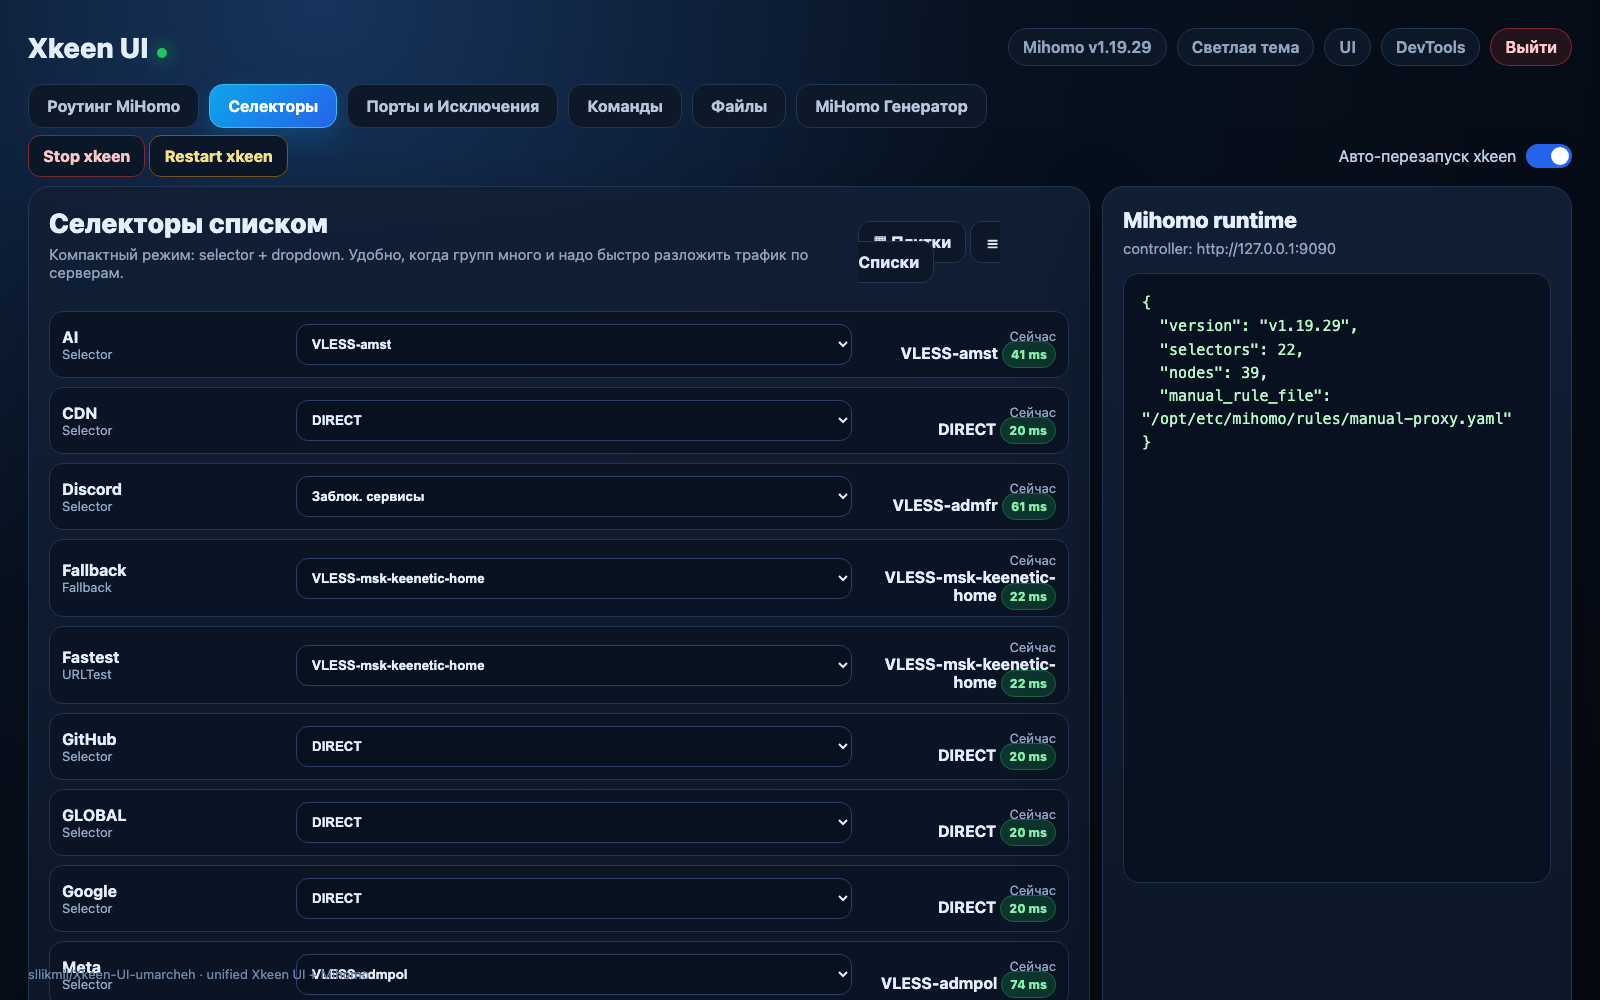
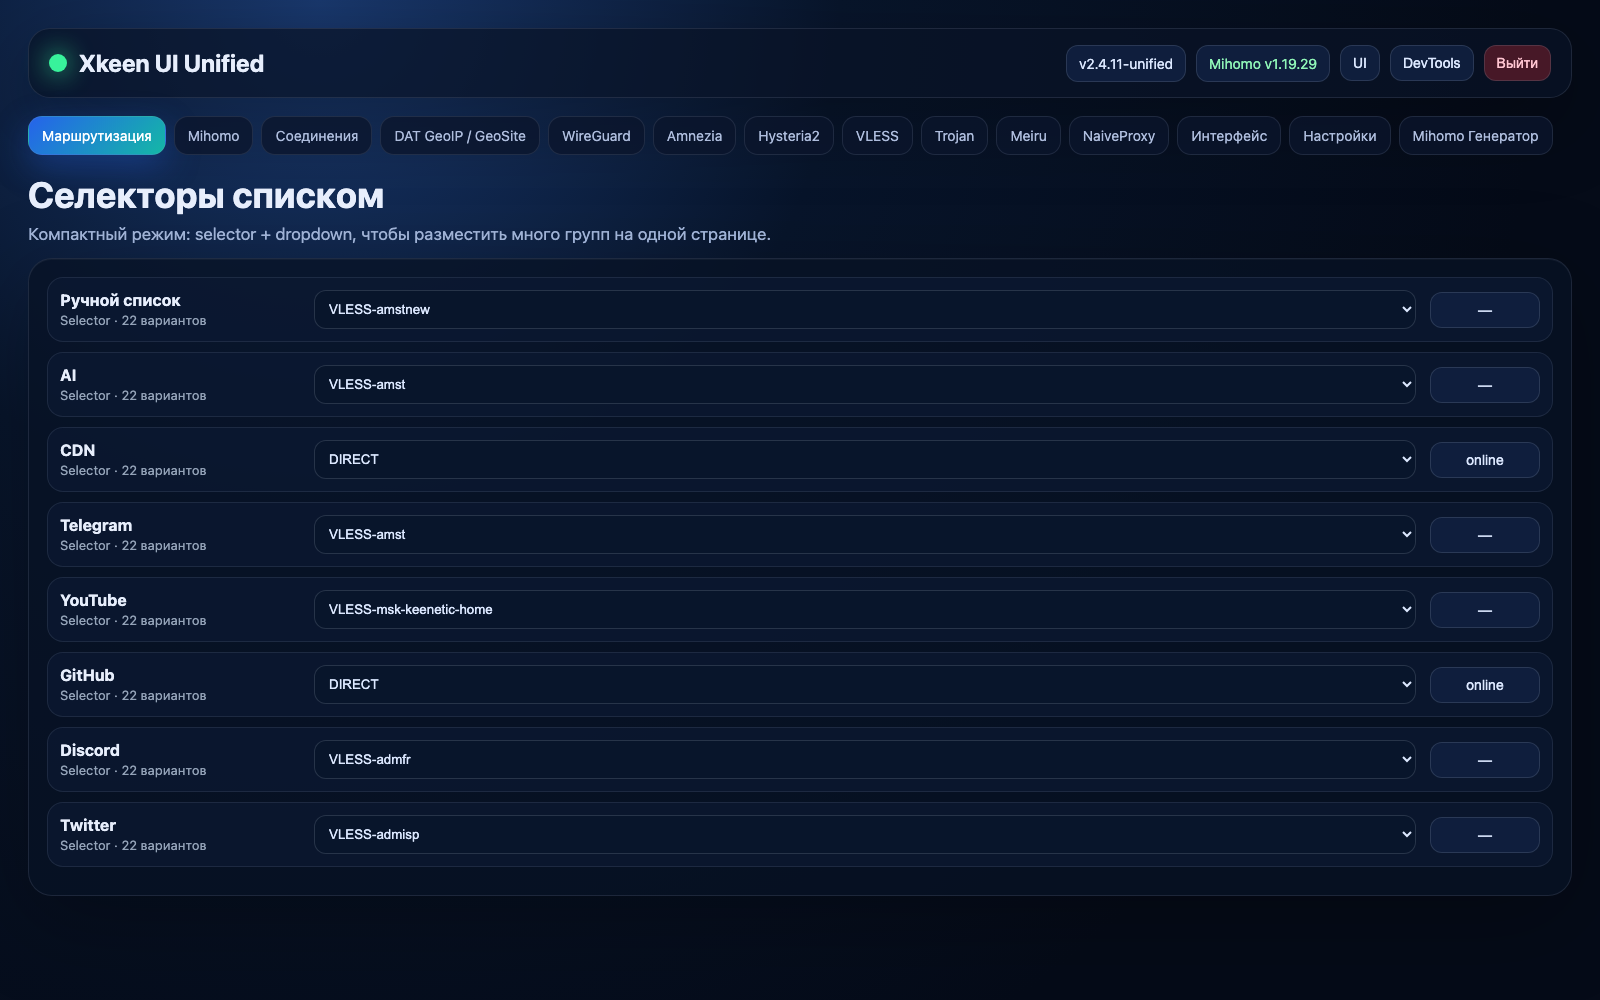
docs: refresh README and screenshots for unified protocols

diff --git a/README.md b/README.md
@@ -1,15 +1,15 @@
 # Xkeen UI Unified
 
-**Xkeen UI Unified** — форк панели `umarcheh001/Xkeen-UI`, собранный под сценарий “одна панель для Keenetic + Entware + Mihomo”.
+**Xkeen UI Unified** — форк [`umarcheh001/Xkeen-UI`](https://github.com/umarcheh001/Xkeen-UI), собранный под сценарий “одна панель для Keenetic + Entware + Mihomo”.
 
-Главная идея простая: не держать отдельно Python-панель на `8088` и Zashboard/Mihomo UI на `9090/ui`. Всё основное управление Mihomo собрано в одной панели:
+Главная цель: убрать зоопарк из Python-панели на `8088`, отдельного Zashboard на `9090/ui`, ручного SSH-редактирования YAML и вечного “а где это переключается?”. Основное управление Mihomo собрано в одной панели:
 
-- редактирование активного `config.yaml`;
-- runtime-селекторы Mihomo;
-- плиточный и компактный списочный режим выбора серверов;
-- обновление ping по одному узлу или сразу по всем;
-- редактор ручного списка `manual-proxy.yaml`;
-- установка standalone Mihomo core вместе с UI.
+- **Маршрутизация** — runtime selectors Mihomo, плитки/списки, ping-и и ручной список;
+- **Mihomo** — редактирование активного `config.yaml`, обновление подписок и YAML-инструменты;
+- **Соединения** — список активных соединений Mihomo с деталями и разрывом соединений;
+- **DAT GeoIP / GeoSite** — обновление, просмотр состава и работа с rule-provider/DAT;
+- **WireGuard / Amnezia / Hysteria2 / VLESS / Trojan / Meiru / NaiveProxy** — импорт подключений ссылкой или файлом и добавление их в selector’ы;
+- **Mihomo Генератор** — встроен в общую панель, без iframe-костылей.
 
 > Панель рассчитана на локальную сеть. Не публикуйте её напрямую в интернет без отдельной авторизации/прокси-защиты. Интернету нельзя давать руль от роутера — он и так плохо себя ведёт.
 
@@ -17,9 +17,9 @@
 
 ## Скриншоты
 
-### Роутинг Mihomo
+### Маршрутизация Mihomo
 
-![Роутинг Mihomo](docs/screenshots/xkeen-routing-mihomo.png)
+![Маршрутизация Mihomo](docs/screenshots/xkeen-routing-mihomo.png)
 
 ### Селекторы плитками
 
@@ -28,6 +28,14 @@
 ### Селекторы списком
 
 ![Селекторы Mihomo — списком](docs/screenshots/xkeen-selectors-list.png)
+
+### Подключения по протоколам
+
+![Подключения WireGuard, Amnezia, Hysteria2, VLESS, Trojan, Meiru, NaiveProxy](docs/screenshots/xkeen-protocol-connections.png)
+
+### Соединения и DAT GeoIP / GeoSite
+
+![Соединения и DAT GeoIP / GeoSite](docs/screenshots/xkeen-connections-geodat.png)
 
 ---
 
@@ -45,47 +53,129 @@
 
 ---
 
-## Что умеет именно этот форк
+## Что умеет этот форк
 
-### Unified installer
+### Единая панель Mihomo на `8088`
 
-`install.sh` ставит не только Python-панель, но и standalone `mihomo`:
+| Раздел | Что делает |
+|---|---|
+| **Маршрутизация** | Runtime-переключение selector-групп Mihomo, плитки/списки, ping одного узла и всех узлов, inspector rule-provider payload |
+| **Mihomo** | Активный профиль `config.yaml`, обновление подписок, YAML-инструменты |
+| **Соединения** | Активные Mihomo connections, фильтрация, просмотр деталей, принудительный разрыв соединений |
+| **DAT GeoIP / GeoSite** | Обновление DAT/rule-provider, просмотр состава, редактирование локальных списков |
+| **Протоколы** | Импорт подключений через ссылку или файл и добавление managed proxy в selector’ы |
+| **Mihomo Генератор** | Генератор конфига встроен в общую панель без отдельной страницы/iframe |
 
-- проверяет/ставит `python3`;
-- ставит `Flask`;
-- по возможности ставит `gevent/gevent-websocket`;
-- ставит `lftp` для файлового менеджера;
-- ставит или проверяет `/opt/sbin/mihomo`;
-- создаёт стандартный layout `/opt/etc/mihomo`;
-- создаёт symlink `config.yaml -> profiles/default.yaml`;
-- создаёт `/opt/etc/mihomo/restart-mihomo.sh`;
-- прописывает команды validate/restart в env панели;
-- регистрирует init-сервис `/opt/etc/init.d/S99xkeen-ui-umarcheh001`.
+### Runtime selectors внутри панели
 
-### Mihomo selectors внутри панели `8088`
+Вкладка **Маршрутизация** работает с Mihomo API напрямую:
 
-Добавлена вкладка **Селекторы** прямо в Xkeen UI:
-
-- runtime-переключение selector-групп через Mihomo API;
 - режим **Плитки** — по умолчанию;
-- режим **Списки** — компактные строки `selector + dropdown`;
-- выбор сервера в подписке прямо из dropdown;
+- режим **Списки** — компактные строки `selector + dropdown`, чтобы много групп помещалось на одной странице;
+- выбор сервера из подписки прямо из dropdown;
 - ping рядом с узлом;
 - клик по ping обновляет задержку конкретного узла;
 - кнопка **Обновить все пинги**;
-- поддержка provider-нод из `/providers/proxies`, а не только top-level `/proxies`.
+- поддержка provider-нод из `/providers/proxies`, а не только top-level `/proxies`;
+- inspector справа показывает конечный payload rule-provider, включая decoded `.mrs` cache, а не бесполезную строку `RULE-SET -> selector`.
 
-Это важно: подписочные узлы вроде `VLESS-amst` могут быть видны внутри selector-группы, но не существовать как отдельный ключ `/proxies/VLESS-amst`. Поэтому прямой запрос `/proxies/<name>/delay` может вернуть `404`. Форк умеет мапить такие узлы через provider healthcheck.
+Подписочные узлы вроде `VLESS-amst` могут быть видны внутри selector-группы, но не существовать как отдельный ключ `/proxies/VLESS-amst`. Поэтому прямой запрос `/proxies/<name>/delay` может вернуть `404`. Форк мапит такие узлы через provider healthcheck. Да, пришлось пройти по минному полю, но теперь оно хотя бы размечено.
 
-### Ручной список в UI
+### Подключения по протоколам
 
-Вкладка **Селекторы** также содержит редактор:
+В панели есть вкладки:
+
+- **WireGuard**
+- **Amnezia**
+- **Hysteria2**
+- **VLESS**
+- **Trojan**
+- **Meiru**
+- **NaiveProxy**
+
+Для каждой вкладки:
+
+- импорт через ссылку или файл конфига;
+- список уже добавленных подключений этого протокола;
+- отображение protocol/type, имени, статуса Mihomo support;
+- видно, в каких selector’ах подключение сейчас доступно;
+- можно выбрать selector’ы, куда добавить подключение;
+- `Preview` показывает managed YAML;
+- `Применить в Mihomo` обновляет managed block в активном config.
+
+Managed registry хранится на роутере:
+
+```text
+/opt/var/lib/xkeen-ui/proxy-connections.json
+```
+
+Mihomo-supported подключения вставляются внутрь существующего top-level `proxies:` между маркерами:
+
+```yaml
+# xkeen-managed-proxies:start
+# ... generated proxy list ...
+# xkeen-managed-proxies:end
+```
+
+Важно: форк **не** добавляет второй top-level `proxies:` в конец файла. Это был бы YAML-гремлин с ножом.
+
+### Поддержка протоколов сейчас
+
+| Протокол | Импорт | Mihomo injection | Статус |
+|---|---:|---:|---|
+| WireGuard | `.conf` | `type: wireguard` | рабочий путь |
+| Amnezia / AWG | `.conf` | WireGuard-compatible outbound | рабочий путь, AWG-специфика сохраняется в registry |
+| VLESS | `vless://` | `type: vless` | рабочий путь |
+| Trojan | `trojan://` | `type: trojan` | parser/injection готовы, нужен серверный inbound для live-теста |
+| Hysteria2 | `hy2://`, `hysteria2://` | `type: hysteria2` | parser/injection готовы, нужен серверный inbound для live-теста |
+| NaiveProxy | `naive+https://` | HTTP/TLS outbound | parser/injection готовы, нужен серверный inbound для live-теста |
+| Meiru | `mieru://` / raw config | registry/staging | отдельный runtime зависит от клиента/бинаря, в Mihomo не injected |
+
+### Ручной список
+
+Вкладка **Маршрутизация** содержит редактор:
 
 ```text
 /opt/etc/mihomo/rules/manual-proxy.yaml
 ```
 
 Файл сохраняется через backend панели с backup. Больше не нужно лезть в SSH ради пары доменов.
+
+### Соединения
+
+Вкладка **Соединения** проксирует Mihomo `/connections`:
+
+- список активных соединений;
+- фильтрация по хостам/источникам;
+- детали соединения по клику;
+- цепочка proxy/rule;
+- принудительный разрыв конкретного соединения.
+
+### DAT GeoIP / GeoSite
+
+Отдельная вкладка для rule-provider/DAT:
+
+- обновление;
+- просмотр состава;
+- работа с локальными списками;
+- decoded cache для `.mrs`, когда Mihomo core умеет `convert-ruleset`.
+
+### Unified installer
+
+`install.sh` ставит не только Python-панель, но и standalone `mihomo`:
+
+- проверяет/ставит `python3`;
+- ставит Python-зависимости из bundled wheelhouse, а уже потом падает во внешний PyPI fallback;
+- ставит `Flask`, `gevent`, `gevent-websocket`;
+- ставит `lftp` для файлового менеджера;
+- ставит или проверяет `/opt/sbin/mihomo`;
+- создаёт стандартный layout `/opt/etc/mihomo`;
+- создаёт symlink `config.yaml -> profiles/default.yaml`;
+- создаёт `/opt/etc/mihomo/restart-mihomo.sh`;
+- прописывает команды validate/restart в env панели;
+- ставит optional xk-geodat;
+- проверяет optional proxy-client artifacts для внешних runtime;
+- регистрирует init-сервис `/opt/etc/init.d/S99xkeen-ui-umarcheh001`.
 
 ---
 
@@ -166,8 +256,6 @@ sh install.sh
 XKEEN_MIHOMO_ASSET_URL=https://example.com/mihomo-linux-arm64.gz sh install.sh
 ```
 
-### Откуда берётся Mihomo
-
 Installer сначала пробует релизы форка:
 
 ```text
@@ -191,12 +279,14 @@ MetaCubeX/mihomo
 | UI | `/opt/etc/xkeen-ui` |
 | UI init script | `/opt/etc/init.d/S99xkeen-ui-umarcheh001` |
 | UI env/state | `/opt/etc/xkeen-ui/devtools.env` |
+| Proxy connection registry | `/opt/var/lib/xkeen-ui/proxy-connections.json` |
 | Mihomo binary | `/opt/sbin/mihomo` |
 | Mihomo root | `/opt/etc/mihomo` |
 | Active profile | `/opt/etc/mihomo/profiles/default.yaml` |
 | Active config symlink | `/opt/etc/mihomo/config.yaml` |
 | Mihomo restart script | `/opt/etc/mihomo/restart-mihomo.sh` |
 | Manual proxy list | `/opt/etc/mihomo/rules/manual-proxy.yaml` |
+| Rule-provider cache | `/opt/var/cache/xkeen-ui/rule-providers/` |
 | UI logs | `/opt/var/log/xkeen-ui/` |
 | Mihomo logs | `/opt/var/log/mihomo/` |
 
@@ -248,8 +338,14 @@ wget -qO- http://127.0.0.1:9090/version
 | `PUT /api/mihomo/clash/proxies/<selector>` | Переключает selector runtime |
 | `POST /api/mihomo/clash/proxies/<proxy>/delay` | Обновляет ping одного узла |
 | `POST /api/mihomo/clash/proxies/delay-all` | Обновляет ping всех видимых узлов |
+| `GET /api/mihomo/clash/connections` | Возвращает активные connections |
+| `DELETE /api/mihomo/clash/connections/<id>` | Разрывает конкретное соединение |
 | `GET /api/mihomo/manual-proxy` | Читает ручной список |
 | `POST /api/mihomo/manual-proxy` | Сохраняет ручной список с backup |
+| `GET /api/proxy-connections` | Список imported protocol connections |
+| `POST /api/proxy-connections/import` | Импорт ссылки/файла подключения |
+| `POST /api/proxy-connections/preview` | Preview generated managed YAML |
+| `POST /api/proxy-connections/apply` | Применяет managed proxies в Mihomo config |
 
 ---
 
@@ -267,6 +363,13 @@ sh install.sh
 ```
 
 Installer сохраняет существующий порт панели и не перетирает пользовательский Mihomo profile, если он уже есть.
+
+На Keenetic нужен GNU `tar`; BusyBox `tar` слишком худой для части update-логики:
+
+```sh
+opkg update
+opkg install tar
+```
 
 ---
 
@@ -309,7 +412,7 @@ rm -rf /opt/var/log/mihomo
 rm -f /opt/var/run/mihomo.pid
 ```
 
-Осторожно: удаление `/opt/etc/mihomo` снесёт ваши профили, rule-providers и ручные списки. Без backup это будет не “очистка”, а маленький бытовой апокалипсис.
+Осторожно: удаление `/opt/etc/mihomo` снесёт профили, rule-providers и ручные списки. Без backup это будет не “очистка”, а маленький бытовой апокалипсис.
 
 ---
 
@@ -321,16 +424,28 @@ rm -f /opt/var/run/mihomo.pid
 npm run frontend:build
 ```
 
+Генерация README-скриншотов из live read-only data:
+
+```sh
+node scripts/generate_readme_screenshots.mjs
+```
+
 Сборка пользовательского архива:
 
 ```sh
 npm run archive:user
 ```
 
-Быстрая проверка installer-контрактов:
+Быстрая проверка installer/API контрактов:
 
 ```sh
 pytest tests/test_unified_mihomo_install_contract.py tests/test_install_script_pip_fallbacks.py -q
+```
+
+Расширенная проверка Mihomo/routing:
+
+```sh
+pytest -q tests -k 'mihomo or selector or install or routing'
 ```
 
 ---
@@ -342,6 +457,8 @@ pytest tests/test_unified_mihomo_install_contract.py tests/test_install_script_p
 - свежая Python-панель от `umarcheh001/Xkeen-UI`;
 - идеи runtime-селекторов и ручного списка из `zxc-rv/XKeen-UI`;
 - standalone Mihomo без legacy `xkeen` CLI;
-- одна панель на `8088` вместо двух отдельных UI.
+- одна панель на `8088` вместо двух отдельных UI;
+- managed protocol connections для WireGuard/Amnezia/VLESS/Trojan/Hysteria2/NaiveProxy;
+- честный staging для Meiru, пока отдельный runtime не закреплён.
 
 Фокус проекта — реальная эксплуатация на роутере, а не красивая демка, которая умирает при первом `restart`.